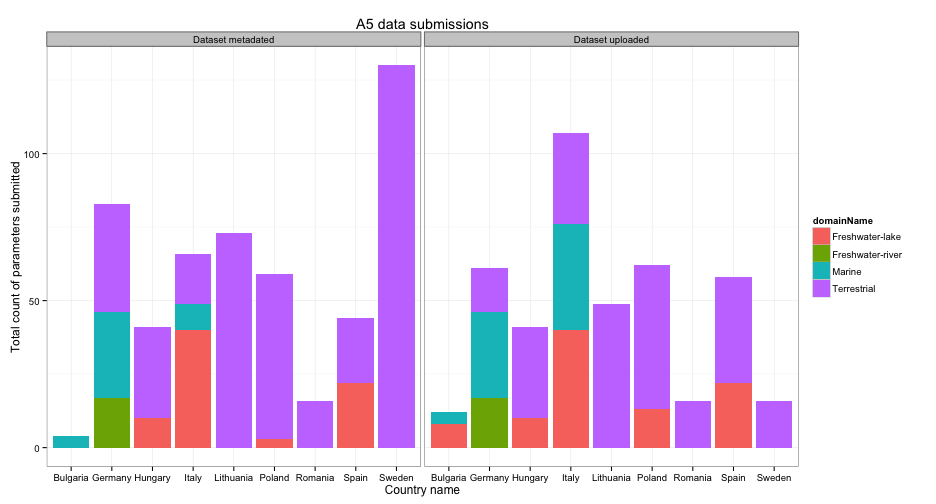
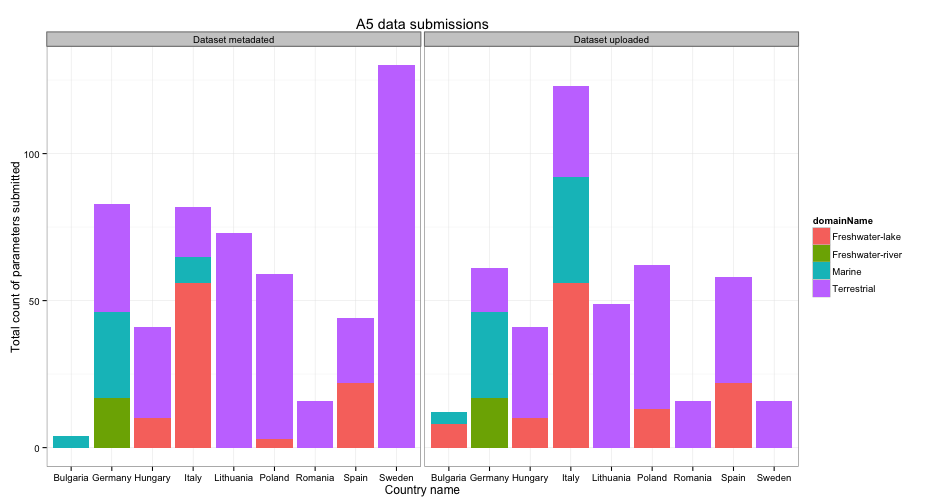
publishing deck

diff --git a/index.html b/index.html
@@ -48,9 +48,9 @@
   </hgroup>
   <article>
     <ul>
-<li>Last updated <code>2013-05-20</code></li>
+<li>Last updated <code>2013-05-26</code></li>
 <li>Deadline for data submission: <code>2013-03-08</code></li>
-<li>Days to deadline: <code>-73</code></li>
+<li>Days to deadline: <code>-79</code></li>
 <li>Total number of sites sampled in 2012: <code>61</code>; sub-sites: <code>65</code></li>
 </ul>
 
@@ -58,13 +58,13 @@
 
 <!-- html table generated in R 3.0.1 by xtable 1.7-1 package -->
 
-<!-- Mon May 20 15:37:18 2013 -->
+<!-- Sun May 26 20:54:57 2013 -->
 
 <TABLE border=1>
 <TR> <TH>  </TH> <TH> No. uploaded </TH> <TH> No. metadated </TH> <TH> Total no. </TH> <TH> Upload ratio </TH> <TH> Metadata ratio </TH>  </TR>
-  <TR> <TD align="right"> Year2012 </TD> <TD align="right"> 335 </TD> <TD align="right"> 407 </TD> <TD align="right"> 2026 </TD> <TD align="right"> 0.17 </TD> <TD align="right"> 0.20 </TD> </TR>
-  <TR> <TD align="right"> Year2011 </TD> <TD align="right">  87 </TD> <TD align="right"> 109 </TD> <TD align="right"> 270 </TD> <TD align="right"> 0.32 </TD> <TD align="right"> 0.40 </TD> </TR>
-  <TR> <TD align="right"> Sum </TD> <TD align="right"> 422 </TD> <TD align="right"> 516 </TD> <TD align="right"> 2296 </TD> <TD align="right"> 0.18 </TD> <TD align="right"> 0.22 </TD> </TR>
+  <TR> <TD align="right"> Year2012 </TD> <TD align="right"> 346 </TD> <TD align="right"> 418 </TD> <TD align="right"> 2026 </TD> <TD align="right"> 0.17 </TD> <TD align="right"> 0.21 </TD> </TR>
+  <TR> <TD align="right"> Year2011 </TD> <TD align="right">  92 </TD> <TD align="right"> 114 </TD> <TD align="right"> 270 </TD> <TD align="right"> 0.34 </TD> <TD align="right"> 0.42 </TD> </TR>
+  <TR> <TD align="right"> Sum </TD> <TD align="right"> 438 </TD> <TD align="right"> 532 </TD> <TD align="right"> 2296 </TD> <TD align="right"> 0.19 </TD> <TD align="right"> 0.23 </TD> </TR>
    </TABLE>
 
   </article>

diff --git a/index.md b/index.md
@@ -26,19 +26,19 @@ github:
 
 ## State of uploading process
 
-* Last updated ``2013-05-20``
+* Last updated ``2013-05-26``
 * Deadline for data submission: `2013-03-08`
-* Days to deadline: ``-73``
+* Days to deadline: ``-79``
 * Total number of sites sampled in 2012: ``61``; sub-sites: ``65``
 
 Parameters uploaded and metadated:
 <!-- html table generated in R 3.0.1 by xtable 1.7-1 package -->
-<!-- Mon May 20 15:37:18 2013 -->
+<!-- Sun May 26 20:54:57 2013 -->
 <TABLE border=1>
 <TR> <TH>  </TH> <TH> No. uploaded </TH> <TH> No. metadated </TH> <TH> Total no. </TH> <TH> Upload ratio </TH> <TH> Metadata ratio </TH>  </TR>
-  <TR> <TD align="right"> Year2012 </TD> <TD align="right"> 335 </TD> <TD align="right"> 407 </TD> <TD align="right"> 2026 </TD> <TD align="right"> 0.17 </TD> <TD align="right"> 0.20 </TD> </TR>
-  <TR> <TD align="right"> Year2011 </TD> <TD align="right">  87 </TD> <TD align="right"> 109 </TD> <TD align="right"> 270 </TD> <TD align="right"> 0.32 </TD> <TD align="right"> 0.40 </TD> </TR>
-  <TR> <TD align="right"> Sum </TD> <TD align="right"> 422 </TD> <TD align="right"> 516 </TD> <TD align="right"> 2296 </TD> <TD align="right"> 0.18 </TD> <TD align="right"> 0.22 </TD> </TR>
+  <TR> <TD align="right"> Year2012 </TD> <TD align="right"> 346 </TD> <TD align="right"> 418 </TD> <TD align="right"> 2026 </TD> <TD align="right"> 0.17 </TD> <TD align="right"> 0.21 </TD> </TR>
+  <TR> <TD align="right"> Year2011 </TD> <TD align="right">  92 </TD> <TD align="right"> 114 </TD> <TD align="right"> 270 </TD> <TD align="right"> 0.34 </TD> <TD align="right"> 0.42 </TD> </TR>
+  <TR> <TD align="right"> Sum </TD> <TD align="right"> 438 </TD> <TD align="right"> 532 </TD> <TD align="right"> 2296 </TD> <TD align="right"> 0.19 </TD> <TD align="right"> 0.23 </TD> </TR>
    </TABLE>
 
 
